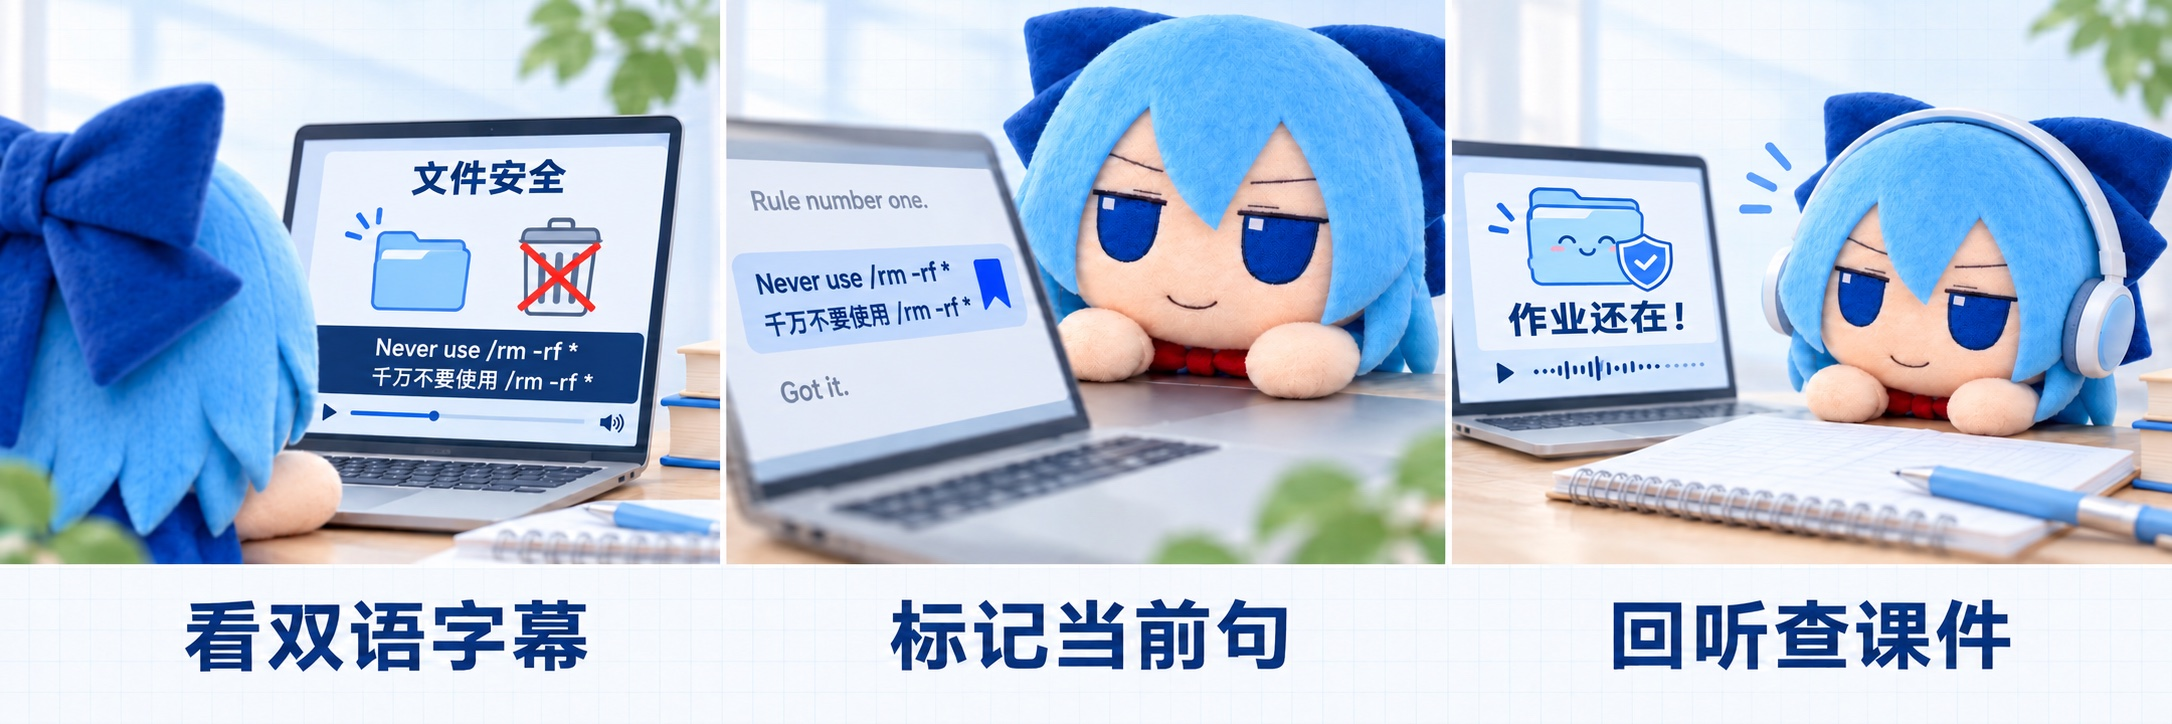
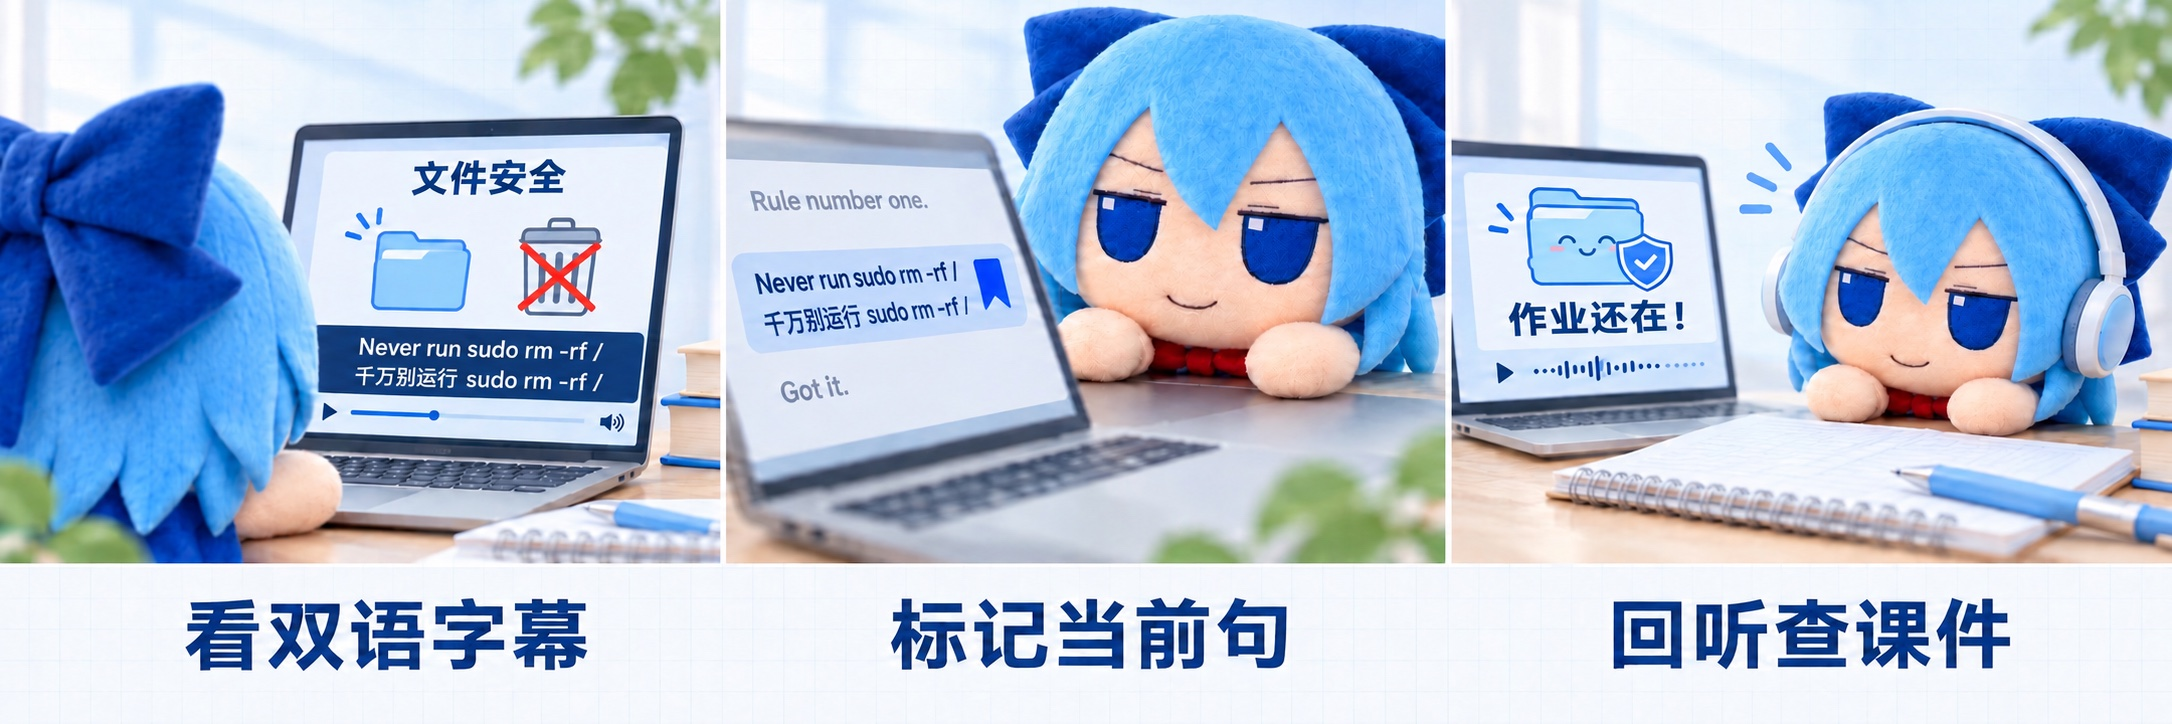
docs: correct the file-safety joke in the classroom illustration

diff --git a/README.md b/README.md
@@ -18,7 +18,7 @@
 ## 从上课到复习
 
 <p align="center">
-  <img src="docs/assets/lecture-review-story.jpg" alt="琪露诺听到「千万不要使用 /rm -rf *」，给这句忠告打了书签，戴上耳机回听时看到课件写着「作业还在！」。" width="100%">
+  <img src="docs/assets/lecture-review-story.jpg" alt="琪露诺听到「千万别运行 sudo rm -rf /」，给这句忠告打了书签，戴上耳机回听时看到课件写着「作业还在！」。" width="100%">
 </p>
 
 1. **开始记录。** 新建课程并开始一个 Lecture，选择录音与双语字幕、仅录音或仅字幕。课件可按需添加，也可以导入已有录音做课后转写。
